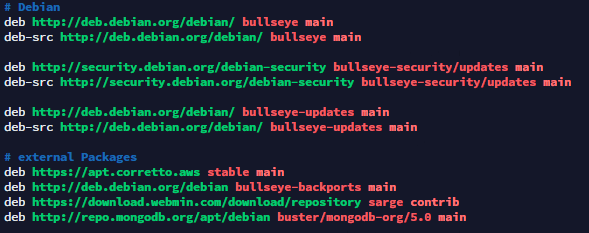
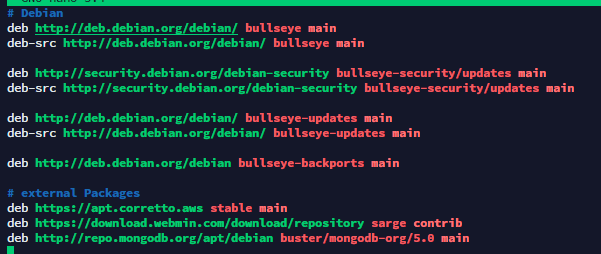
Copy Paste new sources

diff --git a/Debian-Raspian-Upgrade/readme.md b/Debian-Raspian-Upgrade/readme.md
@@ -18,9 +18,31 @@ apt update && apt upgrade -y && apt autoremove -y
 
 ```sh
 cd /etc/apt
-# Replace every Buster with Bullseye (Not with MongoDB current)
+# Replace every Buster with Bullseye (Not with MongoDB current) - see Pictures
+# Or remove everything from Debian and paste the Lines below
 nano sources.list
+```
 
+```sh
+# For Debian
+deb http://deb.debian.org/debian/ bullseye main
+deb-src http://deb.debian.org/debian/ bullseye main
+deb http://security.debian.org/debian-security bullseye-security/updates main
+deb-src http://security.debian.org/debian-security bullseye-security/updates main
+deb http://deb.debian.org/debian/ bullseye-updates main
+deb-src http://deb.debian.org/debian/ bullseye-updates main
+deb http://deb.debian.org/debian bullseye-backports main
+
+# For Raspberry Pi OS (Raspbian)
+deb http://raspbian.raspberrypi.org/raspbian/ bullseye main contrib non-free rpi
+deb-src http://raspbian.raspberrypi.org/raspbian/ bullseye main contrib non-free rpi
+```
+
+```sh
+
+```
+
+```sh
 cd sources.list.d/
 # Replace every Buster with Bullseye in all Files in this Directory (use "nano FILE-NAME")
 apt update
